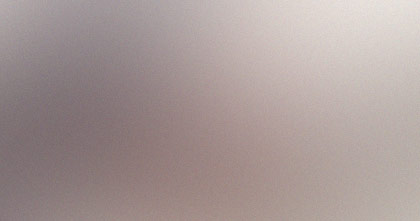
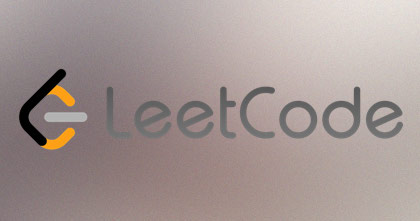
added link to leetcode

Changed region(s): [[0.3095, 0.3801, 0.9595, 0.6244], [0.031, 0.2986, 0.2167, 0.6787], [0.2476, 0.3801, 0.2786, 0.5701]]

diff --git a/index.html b/index.html
@@ -119,9 +119,9 @@
 								</div>
 								<div class="col-4 col-12-mobile">
 									<article class="item">
-										<a href="#" class="image fit"><img src="images/pic06.jpg" alt="" /></a>
+										<a href="https://leetcode.com/kdreyerinseattle/" class="image fit"><img src="images/pic06.jpg" alt="" /></a>
 										<header>
-											<h3>Dolor Penatibus</h3>
+											<h3>LeetCode profile</h3>
 										</header>
 									</article>
 									<article class="item">
